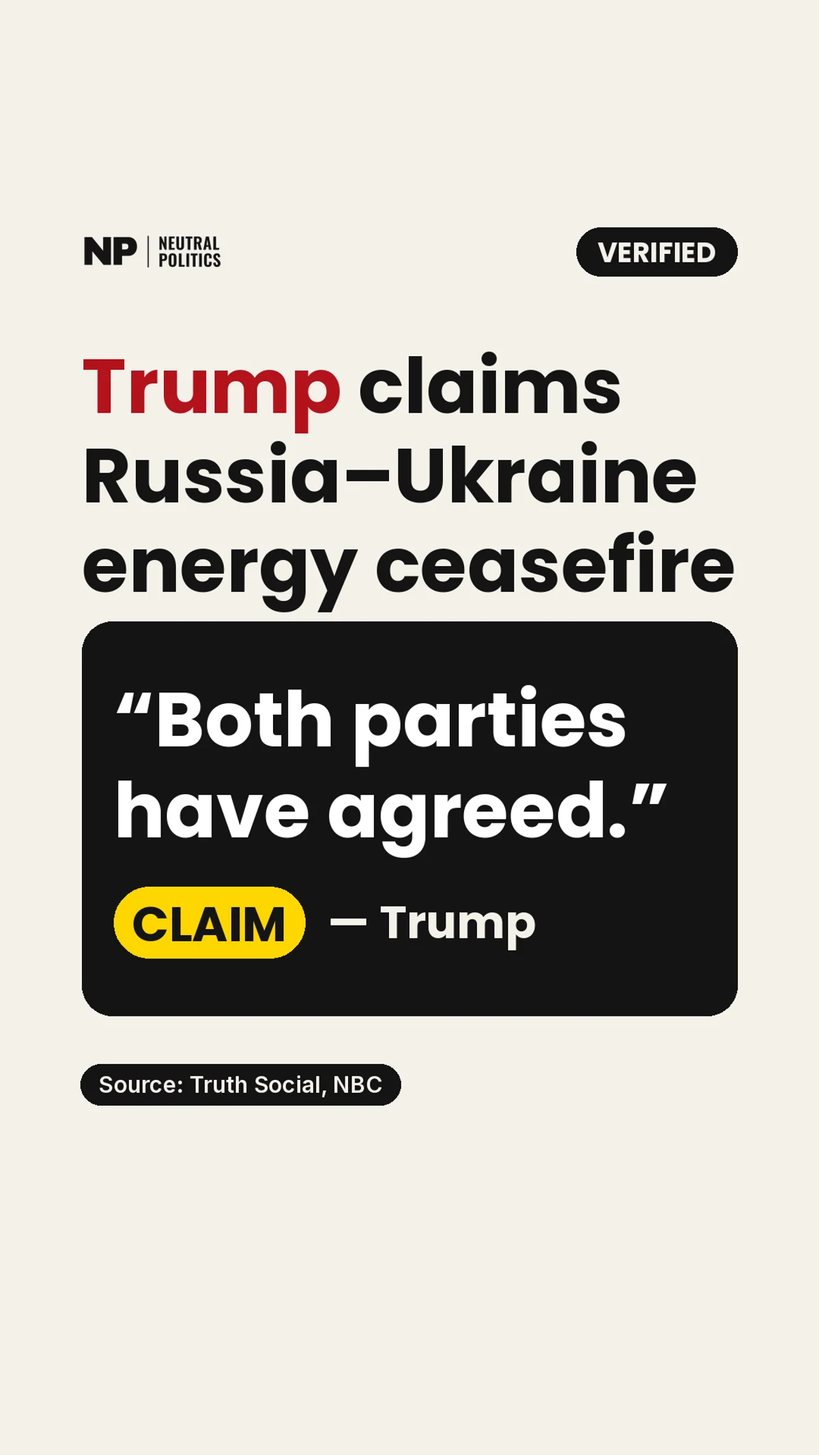
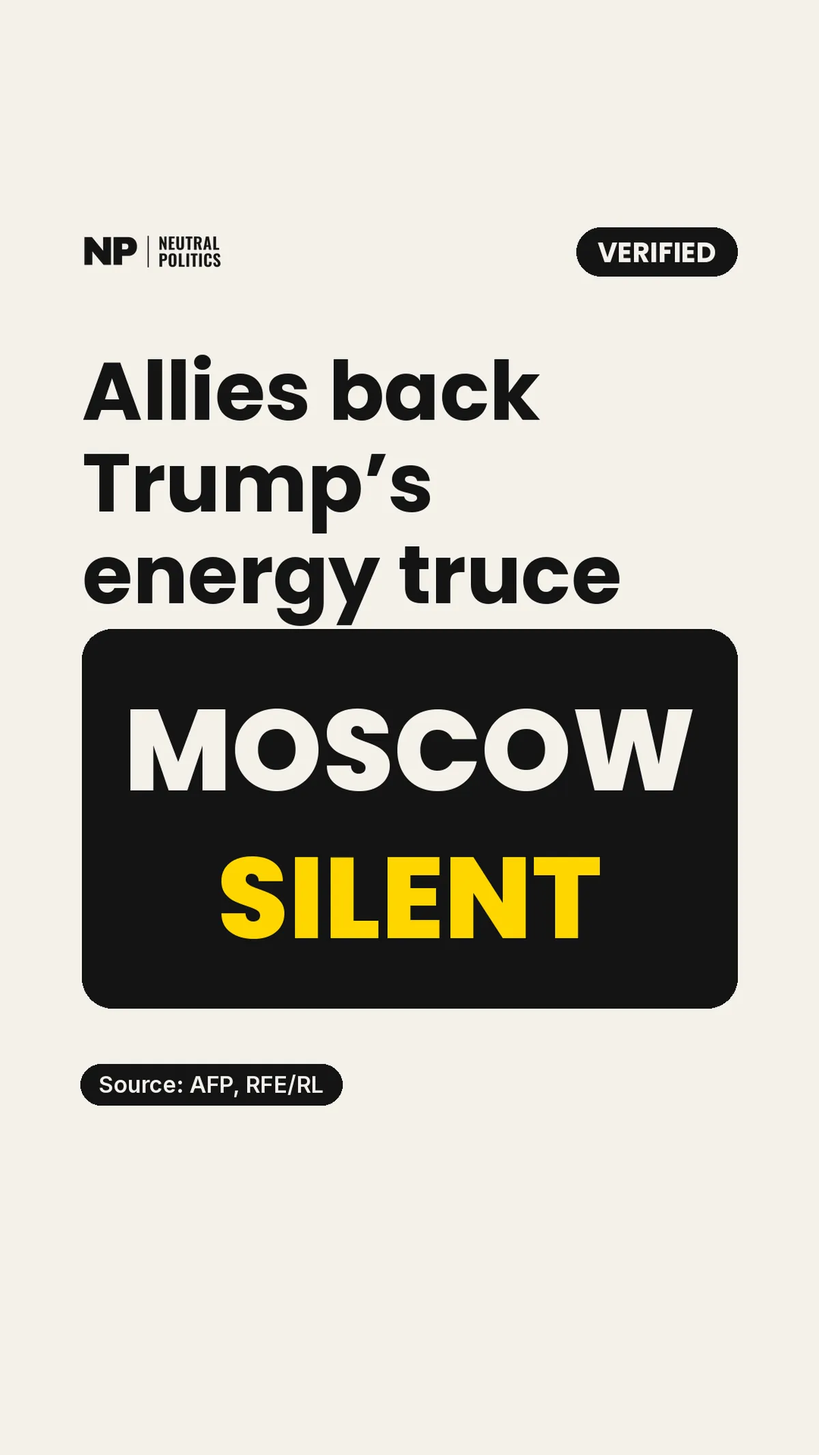
Update the ceasefire draft and file the Hormuz tanker note as a draft.
Allies' backing and Zelenskyy's strike account stay inside the unpublished ceasefire note. The Petro Dolphin and Valthera note is a separate draft and is not on the public lists.

Changed region(s): [[0.0925, 0.4641, 0.8942, 0.7736], [0.0925, 0.2166, 0.8942, 0.4641]]

diff --git a/content/news/2026/10/trump-russia-ukraine-energy-ceasefire-claim.hi.md b/content/news/2026/10/trump-russia-ukraine-energy-ceasefire-claim.hi.md
@@ -1,38 +1,36 @@
 ---
-title: "ट्रंप ने ऊर्जा-युद्धविराम का दावा किया; मास्को ने पुष्टि नहीं की"
-standfirst: "ट्रंप ने ट्रुथ सोशल पर लिखा कि दोनों पक्ष ऊर्जा-युद्धविराम पर सहमत हो गए हैं। यह समझौता उनका दावा है। पोस्ट की घोषणा सत्यापित है। ज़ेलेंस्की ने कहा \"news for me\", और कहा कि रूस माने तो यूक्रेन भी मानेगा। 11 अक्टूबर 2026 को रात 8:55 बजे IST तक मास्को ने पुष्टि नहीं की थी। एनबीसी लिखता है कि एक महीने पहले की मिलती-जुलती घोषणा टिकी नहीं।"
+title: "ट्रंप का ऊर्जा-युद्धविराम दावा; सहयोगियों ने पुकार का साथ दिया; मास्को ने पुष्टि नहीं की"
+standfirst: "ट्रंप की ट्रुथ सोशल पोस्ट सत्यापित है। दोनों पक्षों के सहमत होने वाली उनकी पंक्ति दावा है, और वह कथित है। 12 अक्टूबर 2026 को सुबह 8:55 बजे IST तक क्रेमलिन ने पुष्टि नहीं की थी। कनाडा, ब्रिटेन और फ़्रांस ने उनकी पुकार का साथ दिया। यूरोपीय आयोग की अध्यक्ष ने ज़ेलेंस्की की पुकार का साथ दिया। ज़ेलेंस्की कहते हैं कि यूक्रेन युद्धविराम का समर्थन करता है, और आरोप लगाते हैं कि घोषणा के बाद रूस ने बिजलीघरों पर हमला किया। वे हमले उनका खाता हैं।"
 key_facts:
-  - "जाँच 11 अक्टूबर 2026 को रात 8:55 बजे IST। पोस्ट रात 8:57 बजे IST। घोषणा, यानी ट्रंप की ट्रुथ सोशल पोस्ट, सत्यापित है। समझौता दावा है।"
-  - "एनबीसी, द हिल, वॉशिंगटन एग्ज़ामिनर, एनडीटीवी और कीव पोस्ट पोस्ट का उद्धरण देते हैं। यहाँ इस्तेमाल हुई पंक्ति उनकी है: \"Both parties have agreed.\" यह वाक्य ऊर्जा-युद्धविराम पर ट्रंप का दावा है। इस जाँच में ट्रुथ सोशल खोला नहीं गया। मुहर कहती है कि उद्धृत पाठ अखबारों में एक जैसा है।"
-  - "ज़ेलेंस्की ने कहा कि यह \"news for me\" है, और रूस माने तो यूक्रेन भी मानेगा। एक्सियोस, एनबीसी और द हिल के ज़रिए, ये शब्द छापता है।"
-  - "रात 8:55 बजे IST तक मास्को ने घोषणा की पुष्टि नहीं की थी। एनबीसी और kurs.com.ua यह लिखते हैं। कीव इंडिपेंडेंट नोट करता है कि 8 अक्टूबर को पेसकोव ने कहा था कि रूस एक क्षेत्रीय युद्धविराम में कोई मतलब नहीं देखता। वह टिप्पणी 8 अक्टूबर की है।"
-  - "एनबीसी नोट करता है कि एक महीने पहले की मिलती-जुलती घोषणा टिकी नहीं।"
+  - "पहली जाँच 11 अक्टूबर 2026 को रात 8:55 बजे IST, पोस्ट रात 8:57 बजे IST। अगली कड़ी की जाँच 12 अक्टूबर को सुबह 8:55 बजे IST, पोस्ट सुबह 10:56 बजे IST। घोषणा सत्यापित है। \"Both parties have agreed\" ट्रंप का दावा है, और कथित है।"
+  - "कनाडा के प्रधानमंत्री मार्क कार्नी, ब्रिटेन के प्रधानमंत्री एंडी बर्नहम, और फ़्रांस के इमैनुएल मैक्रों ने ट्रंप की ऊर्जा-युद्धविराम पुकार का साथ दिया। यूरोपीय आयोग की अध्यक्ष उर्सुला फ़ॉन डेर लेयेन ने ज़ेलेंस्की की युद्धविराम-पुकार का साथ दिया। इस नोट में उनका साथ ट्रंप के फ़्रेमिंग जैसा नहीं माना गया।"
+  - "ज़ेलेंस्की कहते हैं कि यूक्रेन एक ट्रूस का समर्थन करता है। यहाँ वह शब्द पुकार है, चल रहा ट्रूस नहीं। उन्होंने आरोप लगाया कि घोषणा के बाद रूस ने बिजलीघरों पर हमला किया। एएफ़पी का खाता कीव और खार्किव सीएचपी-5 लेता है। आरएफ़ई/आरएल कहता है कि समय की स्वतंत्र पुष्टि नहीं हुई।"
+  - "12 अक्टूबर को सुबह 8:55 बजे IST तक क्रेमलिन ने दावे की पुष्टि नहीं की थी। ग्लोब एंड मेल, आरएफ़ई/आरएल, गार्डियन, पीबीएस और बीबीसी यह ख़ामोशी छापते हैं। कीव इंडिपेंडेंट में एक रूसी सांसद का सवाल क्रेमलिन की लाइन नहीं है।"
+  - "कार्नी ने, ग्लोब एंड मेल में, अमेरिका-रूस डीज़ल समझौते की अलग से निंदा भी की। वह पुकार से अलग है।"
 sides:
   - label: "सत्यापित"
-    text: "ट्रंप ने ट्रुथ सोशल पर घोषणा पोस्ट की। अखबार उन्हें यह कहते हुए उद्धृत करते हैं कि दोनों पक्ष सहमत हो गए हैं। वह उद्धरण उनका दावा है।"
-  - label: "दावा, अपुष्ट"
-    text: "समझौता खुद। ज़ेलेंस्की ने कहा कि यह उनके लिए नई बात है और रूस माने तो यूक्रेन मानेगा। 8:55 बजे IST तक मास्को ने पुष्टि नहीं की थी।"
+    text: "ट्रंप ने घोषणा पोस्ट की। कार्नी, बर्नहम और मैक्रों ने पुकार का साथ दिया। फ़ॉन डेर लेयेन ने ज़ेलेंस्की की पुकार का साथ दिया। 12 अक्टूबर की जाँच तक मास्को ने दावे की पुष्टि नहीं की थी।"
+  - label: "दावा, कथित"
+    text: "\"Both parties have agreed.\" घोषणा के बाद बिजलीघरों पर हमले का आरोप ज़ेलेंस्की का है। समय को यहाँ स्वतंत्र रूप से सत्यापित निष्कर्ष नहीं माना गया।"
 not_confirmed:
-  - "कि दोनों पक्ष सहमत हो गए हैं। ये शब्द ट्रंप का दावा हैं।"
-  - "मास्को की पुष्टि, 11 अक्टूबर 2026 को रात 8:55 बजे IST तक।"
-  - "दावे के साथ कोई अवधि। यहाँ कोई अवधि नहीं लिखी गई।"
+  - "कि दोनों पक्ष सहमत हो गए हैं। ये शब्द ट्रंप का दावा हैं, और कथित रहते हैं।"
+  - "क्रेमलिन की पुष्टि या खंडन, 12 अक्टूबर 2026 को सुबह 8:55 बजे IST तक।"
+  - "बिजलीघरों पर हमले, इस नोट के निष्कर्ष के रूप में। वे ज़ेलेंस्की का आरोप हैं। आरएफ़ई/आरएल कहता है कि समय की स्वतंत्र पुष्टि नहीं हुई।"
 translation:
   engine: "cloud-agent"
   status: "machine"
 ---
 
-यह नोट एनपी नाउ है। घोषणा सत्यापित है। समझौता दावा है। जाँच 11 अक्टूबर 2026 को रात 8:55 बजे IST हुई और पोस्ट रात 8:57 बजे IST हुआ।
+यह नोट एनपी नाउ है। घोषणा सत्यापित है। समझौता दावा है। पहली जाँच 11 अक्टूबर 2026 को रात 8:55 बजे IST हुई, और वह रील रात 8:57 बजे IST पोस्ट हुई। अगली कड़ी की जाँच 12 अक्टूबर 2026 को सुबह 8:55 बजे IST हुई और पोस्ट सुबह 10:56 बजे IST हुआ। अगली कड़ी की मुहर सहयोगियों के समर्थन पर, मास्को की ख़ामोशी पर, और इस बात पर सत्यापित है कि हमले का आरोप ज़ेलेंस्की ने लगाया। दोनों पक्षों के सहमत होने वाली पंक्ति दावा रहती है।
 
-राष्ट्रपति डॉनल्ड ट्रंप ने रूस और यूक्रेन के बीच एक ऊर्जा-युद्धविराम पर ट्रुथ सोशल पर पोस्ट किया। एनबीसी, द हिल, वॉशिंगटन एग्ज़ामिनर, एनडीटीवी और कीव पोस्ट उस पोस्ट का उद्धरण देते हैं। एलबीसी भी घोषणा की रिपोर्ट करता है। इस नोट की पंक्ति उनकी है: "Both parties have agreed." यह वाक्य ट्रंप का दावा है। मुहर घोषणा को, यानी पोस्ट को, सत्यापित मानती है। समझौते को वह दावा मानती है। इस जाँच में ट्रुथ सोशल खोला नहीं गया। उद्धृत पाठ वही है जो ये अखबार छापते हैं, और मुहर कहती है कि वह पाठ उनमें एक जैसा है। शिन्हुआ की फ़्लैश उसी जाँच में नाम है, यहाँ अलग लिंक नहीं है।
+राष्ट्रपति डॉनल्ड ट्रंप ने रूस और यूक्रेन के बीच एक ऊर्जा-युद्धविराम पर ट्रुथ सोशल पर पोस्ट किया। एनबीसी, द हिल, वॉशिंगटन एग्ज़ामिनर, एनडीटीवी और कीव पोस्ट उस पोस्ट का उद्धरण देते हैं। एलबीसी भी घोषणा की रिपोर्ट करता है। इस नोट की पंक्ति उनकी है: "Both parties have agreed." अगली कड़ी की स्क्रीन उसी दावे को छोटा करके "Both parties agreed" लिखती है। दोनों रूप कथित हैं। यह ट्रंप का दावा है। पहली जाँच में ट्रुथ सोशल खोला नहीं गया। उद्धृत पाठ वही है जो वे अखबार छापते हैं।
 
-राष्ट्रपति वोलोदिमिर ज़ेलेंस्की ने घोषणा को "news for me" कहा। उन्होंने कहा कि रूस माने तो यूक्रेन भी मानेगा। एक्सियोस, एनबीसी और द हिल के ज़रिए, ये शब्द छापता है। उनका वाक्य शर्त वाला है। वह कहता है कि यूक्रेन का मानना रूस के मानने पर टिका है। यह पोस्ट पर उनकी प्रतिक्रिया है, एक्सियोस के ज़रिए उन दो अखबारों में।
+राष्ट्रपति वोलोदिमिर ज़ेलेंस्की ने घोषणा को "news for me" कहा और कहा कि रूस माने तो यूक्रेन भी मानेगा। एक्सियोस ने, एनबीसी और द हिल के ज़रिए, ये शब्द 11 अक्टूबर को छापे। अगली कड़ी में वे कहते हैं कि यूक्रेन एक ट्रूस का समर्थन करता है। इस नोट में "ट्रूस" उस पुकार का नाम है। इसका अर्थ यह नहीं कि ट्रूस चल रहा है। उन्होंने यह आरोप भी लगाया कि घोषणा के बाद रूस ने बिजलीघरों पर हमला किया। एएफ़पी, 11 अक्टूबर को 20:52 बजे की रिपोर्ट में, कीव और खार्किव के सीएचपी-5 पर हमलों का उनका खाता छापता है। आरएफ़ई/आरएल, उसी रात 10:01 बजे यूटीसी की फ़ाइल में, कहता है कि उन हमलों के समय की स्वतंत्र पुष्टि नहीं हुई। यह नोट हमलों को ज़ेलेंस्की से जोड़ता है। उन्हें अपना खाता नहीं बनाता।
 
-रात 8:55 बजे IST तक मास्को ने घोषणा की पुष्टि नहीं की थी। एनबीसी पुष्टि न होने की रिपोर्ट करता है, और kurs.com.ua भी। कीव इंडिपेंडेंट, इस जाँच में नोट किए गए खाते में, लिखता है कि 8 अक्टूबर को पेसकोव ने कहा था कि रूस एक क्षेत्रीय युद्धविराम में कोई मतलब नहीं देखता। यह पेसकोव की 8 अक्टूबर की रिपोर्ट की गई टिप्पणी है। यह नोट उसे उसी पुरानी टिप्पणी के रूप में रखता है। उसे 11 अक्टूबर की पोस्ट पर मास्को का जवाब नहीं माना गया। जाँच तक रिकॉर्ड पर बात यह है कि मास्को ने घोषणा की पुष्टि नहीं की थी।
+अगली कड़ी दर्ज करती है कि पुकार का किसने साथ दिया। कनाडा के प्रधानमंत्री मार्क कार्नी, ब्रिटेन के प्रधानमंत्री एंडी बर्नहम, और फ़्रांस के इमैनुएल मैक्रों ने ट्रंप की ऊर्जा-युद्धविराम पुकार का साथ दिया। आरएफ़ई/आरएल बर्नहम और कार्नी की रिपोर्ट करता है। ग्लोब एंड मेल कार्नी का "strong support" छापता है। एएफ़पी मैक्रों को "real energy ceasefire" कहते हुए छापता है, पुकार का साथ देते हुए। वह मुहावरा उनका है, पुकार के अंदर। यूरोपीय आयोग की अध्यक्ष उर्सुला फ़ॉन डेर लेयेन ने ज़ेलेंस्की की युद्धविराम-पुकार का साथ दिया। सीएनए यह छापता है। जाँच एसबीएस का भी नाम लेती है। यह नोट उनके समर्थन को ट्रंप के फ़्रेमिंग का समर्थन नहीं मानता। स्क्रीन की पंक्ति यह है कि सहयोगी साथ हैं, और मास्को ख़ामोश है।
 
-एनबीसी यह भी नोट करता है कि एक महीने पहले की मिलती-जुलती घोषणा टिकी नहीं। यह एनबीसी की तुलना है, और स्क्रीन पर ट्रैक-रिकॉर्ड की पंक्ति है। वह उस पुरानी घोषणा का हाल दर्ज करती है। यह कोई पूर्वानुमान नहीं है।
+12 अक्टूबर को सुबह 8:55 बजे IST तक मास्को ने दावे की पुष्टि नहीं की थी। ग्लोब एंड मेल, आरएफ़ई/आरएल, गार्डियन की 12 अक्टूबर की ब्रीफ़िंग, पीबीएस और बीबीसी यह ख़ामोशी छापते हैं। कीव इंडिपेंडेंट नोट करता है कि एक रूसी सांसद ने दावे पर सवाल किया। वह क्रेमलिन की आधिकारिक पुष्टि या खंडन नहीं है। 11 अक्टूबर की पहले वाली जाँच में भी यही कमी थी: एनबीसी और kurs.com.ua ने तब मास्को की पुष्टि न होने की रिपोर्ट की, और कीव इंडिपेंडेंट ने पेसकोव की 8 अक्टूबर की टिप्पणी नोट की कि रूस एक क्षेत्रीय युद्धविराम में कोई मतलब नहीं देखता। एनबीसी ने यह भी नोट किया कि एक महीने पहले की मिलती-जुलती घोषणा टिकी नहीं।
 
-स्क्रीन एक बँटवारे पर बंद होती है। घोषणा: हाँ। दोनों सहमत हुए या नहीं: दावा, और अपुष्ट। कैप्शन भी यही बँटवारा इस्तेमाल करता है। पोस्ट की स्थिति-पंक्ति कहती है कि घोषणा सत्यापित है और समझौता दावा है, जाँच रात 8:55 बजे IST।
+कार्नी की डीज़ल टिप्पणी अलग है, और वह कैप्शन के स्तर पर है। ग्लोब एंड मेल लिखता है कि उन्होंने अमेरिका-रूस डीज़ल समझौते की निंदा की, पुकार का साथ देते हुए भी। विनिपेग फ़्री प्रेस भी उस समझौते पर उनकी टिप्पणी छापता है। यह नोट निंदा दर्ज करता है। यह कोई क़ीमत का नतीजा नहीं जोड़ता।
 
-लेख के नीचे लिंक एनबीसी, द हिल, वॉशिंगटन एग्ज़ामिनर, एनडीटीवी, कीव पोस्ट और एलबीसी हैं। kurs.com.ua, कीव इंडिपेंडेंट और शिन्हुआ जाँच में नाम हैं और यहाँ अलग लिंक नहीं हैं।
-
-कवर एनपी का टाइपोग्राफ़िक ग्राफ़िक है। कोई तस्वीर इस्तेमाल नहीं हुई।
+पहली रील DeW-jPsRxri है। अगली कड़ी DeYej9nRdNx है। लिंक में अब 11 अक्टूबर के माध्यम और एएफ़पी, आरएफ़ई/आरएल, ग्लोब एंड मेल, सीएनए, पीबीएस, बीबीसी, गार्डियन और विनिपेग फ़्री प्रेस हैं। कवर एनपी का टाइपोग्राफ़िक ग्राफ़िक है। कोई तस्वीर इस्तेमाल नहीं हुई।

diff --git a/content/news/2026/10/hormuz-petro-dolphin-valthera-2-indians-missing.hi.md b/content/news/2026/10/hormuz-petro-dolphin-valthera-2-indians-missing.hi.md
@@ -1,0 +1,37 @@
+---
+title: "पेट्रो डॉल्फ़िन और वल्थेरा पर हमलों के बाद दो भारतीय नाविक लापता"
+standfirst: "11 अक्टूबर 2026 को निकारागुआ झंडे वाले एमटी पेट्रो डॉल्फ़िन पर ओमान के सोहर एंकरेज में ड्रोन गिरा। जहाज़रानी मंत्री सर्बानंद सोनोवाल ने कहा कि 11 भारतीय चालक दल में से नौ को बचा लिया गया और दो अब भी लापता हैं। मार्शल द्वीप झंडे वाले एमटी वल्थेरा पर होर्मुज़ जलडमरूमध्य में अज्ञात प्रक्षेप्य गिरा; सोनोवाल ने कहा कि वहाँ के सभी 11 भारतीय चालक दल सुरक्षित हैं। विदेश मंत्रालय ने हमलों की निंदा की। जाँच 12 अक्टूबर को करीब सुबह 10:55 बजे IST। पोस्ट सुबह 11:00 बजे IST।"
+key_facts:
+  - "11 अक्टूबर 2026। भारतीय चालक दल वाले दो टैंकरों पर अलग-अलग हमले। दोबारा जाँच 12 अक्टूबर को करीब सुबह 10:55 बजे IST। पोस्ट सुबह 11:00 बजे IST।"
+  - "एमटी पेट्रो डॉल्फ़िन, निकारागुआ का झंडा, ओमान के सोहर एंकरेज पर: ड्रोन हमला। सोनोवाल: 11 में से नौ भारतीय चालक दल बचाए गए और सुरक्षित हैं; दो भारतीय नागरिक अब भी लापता; स्थानीय तटरक्षक की खोज-बचाव जारी।"
+  - "एमटी वल्थेरा, मार्शल द्वीप का झंडा, होर्मुज़ जलडमरूमध्य में: अज्ञात प्रक्षेप्य और जहाज़ पर आग। सोनोवाल: सभी 11 भारतीय चालक दल सुरक्षित।"
+  - "मस्कट में भारत का दूतावास समन्वय कर रहा है। न्यूज़ ऑन एयर लिखता है कि दूतावास निगरानी कर रहा है।"
+  - "एमईए, न्यूज़ ऑन एयर, इंडियन एक्सप्रेस, इकनॉमिक टाइम्स और फ़र्स्टपोस्ट के ज़रिए: \"We condemn the attacks on commercial vessels in the Strait of Hormuz region on 11 October 2026.\""
+sides:
+  - label: "सोनोवाल ने क्या बताया"
+    text: "पेट्रो डॉल्फ़िन: नौ भारतीय चालक दल बचाए गए, दो लापता, तटरक्षक की खोज जारी। वल्थेरा: अज्ञात प्रक्षेप्य, आग, सभी 11 भारतीय चालक दल सुरक्षित।"
+  - label: "एमईए ने क्या कहा"
+    text: "भारत ने 11 अक्टूबर 2026 को होर्मुज़ जलडमरूमध्य क्षेत्र में वाणिज्यिक जहाज़ों पर हमलों की निंदा की। बयान किसी हमलावर का नाम नहीं लेता।"
+not_confirmed:
+  - "दोनों हमले किसने किए। यह नोट किसी हमलावर का नाम नहीं लेता।"
+  - "दो लापता नाविक, सोनोवाल की गिनती के आगे। वे दो भारतीय नागरिक के रूप में दर्ज हैं जो अब भी लापता हैं।"
+translation:
+  engine: "cloud-agent"
+  status: "machine"
+---
+
+यह नोट एनपी नाउ है। मुहर सत्यापित है। दोबारा जाँच 12 अक्टूबर 2026 को करीब सुबह 10:55 बजे IST हुई और पोस्ट सुबह 11:00 बजे IST हुआ। इसमें 11 अक्टूबर 2026 के दो हमले हैं, भारतीय चालक दल वाले दो टैंकरों पर। दोनों हमले अलग रखे गए हैं।
+
+पहला जहाज़ एमटी पेट्रो डॉल्फ़िन है, झंडा निकारागुआ का। उस पर ओमान के सोहर एंकरेज में ड्रोन गिरा। जहाज़रानी मंत्री सर्बानंद सोनोवाल, जिन्हें पीटीआई के साथ द हिंदू और आईएएनएस के साथ इकनॉमिक टाइम्स उद्धृत करते हैं, ने कहा: "While nine of our Indian crew members have been successfully rescued and are safe, two Indian nationals currently remain missing. Search-and-rescue operations are actively underway by the local Coast Guard." हिंदी में वह यह कह रहे हैं कि नौ भारतीय चालक दल को बचा लिया गया है और वे सुरक्षित हैं, दो भारतीय नागरिक अब भी लापता हैं, और स्थानीय तटरक्षक खोज-बचाव चला रहा है। स्क्रीन भी यही बँटवारा इस्तेमाल करती है: ड्रोन हमला, दो भारतीय लापता, और तटरक्षक की खोज जारी। ट्रिब्यून और इकनॉमिक टाइम्स भी ड्रोन हमला, नौ को बचाया जाना, और दो के लापता होने की रिपोर्ट करते हैं।
+
+मस्कट में भारत का दूतावास समन्वय कर रहा है। न्यूज़ ऑन एयर लिखता है कि दूतावास निगरानी कर रहा है। स्क्रीन कहती है कि दूतावास समन्वय कर रहा है। चालक दल की स्थिति के लिए नामित स्रोत सोनोवाल की पोस्ट और दूतावास का खाता हैं।
+
+दूसरा जहाज़ एमटी वल्थेरा है, झंडा मार्शल द्वीप का। होर्मुज़ जलडमरूमध्य में उस पर अज्ञात प्रक्षेप्य गिरा, और जहाज़ पर आग लगी। सोनोवाल ने कहा कि उस जहाज़ के सभी 11 भारतीय चालक दल सुरक्षित हैं। कैप्शन आग दर्ज करता है। स्क्रीन की पंक्ति यह है कि भारतीय चालक दल सभी सुरक्षित हैं। यह नोट प्रक्षेप्य को अज्ञात रखता है। उसे किसी का नहीं बताता।
+
+विदेश मंत्रालय ने हमलों की निंदा की। न्यूज़ ऑन एयर, इंडियन एक्सप्रेस, इकनॉमिक टाइम्स और फ़र्स्टपोस्ट यह वाक्य छापते हैं: "We condemn the attacks on commercial vessels in the Strait of Hormuz region on 11 October 2026." यह एमईए का वाक्य है। हिंदी में वह 11 अक्टूबर 2026 को होर्मुज़ जलडमरूमध्य क्षेत्र में वाणिज्यिक जहाज़ों पर हमलों की निंदा है। उसमें किसी हमलावर का नाम नहीं है। यह नोट नाम नहीं जोड़ता।
+
+दो लापता लोग वैसे ही रहते हैं जैसे सोनोवाल ने कहा: दो भारतीय नागरिक। कैप्शन भी वही दो जहाज़ दर्ज करता है। पेट्रो डॉल्फ़िन पर, ओमान के पास, ड्रोन हमला, नौ भारतीय बचाए गए, दो अब भी लापता, और तटरक्षक की खोज जारी। वल्थेरा पर, होर्मुज़ में, आग, और सभी 11 भारतीय सुरक्षित। एमईए ने हमलों की निंदा की। कैप्शन कहता है कि हमलावर का आधिकारिक नाम नहीं लिया गया। यह नोट उसी सीमा में रहता है। नोट बंद करने वाली जाँच 12 अक्टूबर को करीब सुबह 10:55 बजे IST हुई, और कैप्शन की स्थिति-पंक्ति सुबह 11:00 बजे IST की जाँच कहती है, जिस समय रील पोस्ट हुई।
+
+लिंक सोनोवाल का खाता, मस्कट दूतावास का खाता, न्यूज़ ऑन एयर, द हिंदू, इकनॉमिक टाइम्स की तीन रिपोर्टें, फ़र्स्टपोस्ट, इंडियन एक्सप्रेस और ट्रिब्यून हैं।
+
+कवर एनपी का टाइपोग्राफ़िक ग्राफ़िक है। कोई तस्वीर इस्तेमाल नहीं हुई।

diff --git a/content/news/2026/10/trump-russia-ukraine-energy-ceasefire-claim.en.md b/content/news/2026/10/trump-russia-ukraine-energy-ceasefire-claim.en.md
@@ -1,35 +1,33 @@
 ---
-title: "Trump claims an energy ceasefire; Moscow has not confirmed it"
-standfirst: "Trump posted on Truth Social that both parties had agreed an energy ceasefire. That agreement is his claim. The post itself is verified. Zelenskyy called it \"news for me\" and said Ukraine will agree if Russia does. As of 8:55 pm IST on 11 October 2026, Moscow had not confirmed it. NBC notes that a similar announcement a month earlier did not hold."
+title: "Trump claims an energy ceasefire; allies back the call; Moscow has not confirmed"
+standfirst: "Trump's Truth Social post is verified. His line that both parties have agreed is a claim, and it is alleged. As of 8:55 am IST on 12 October 2026 the Kremlin had not confirmed it. Canada, the UK and France backed his call. The EU Commission's president backed Zelenskyy's push. Zelenskyy says Ukraine supports a truce and accuses Russia of hitting power plants after the announcement. Those strikes are his account."
 key_facts:
-  - "Checked at 8:55 pm IST on 11 October 2026. Posted at 8:57 pm IST. The announcement, meaning Trump's Truth Social post, is verified. The agreement is a claim."
-  - "NBC, The Hill, the Washington Examiner, NDTV and Kyiv Post quote the post. The line used here is his: \"Both parties have agreed.\" That sentence is Trump's claim about an energy ceasefire. Truth Social was not opened for this check. The stamp says the quoted text is consistent across the outlets."
-  - "Zelenskyy said it was \"news for me\", and that Ukraine will agree if Russia does. Axios, via NBC and The Hill, reports those words."
-  - "As of 8:55 pm IST, Moscow had not confirmed the announcement. NBC and kurs.com.ua report that. The Kyiv Independent notes that on 8 October Peskov said Russia saw no point in a sectoral ceasefire. That remark is from 8 October."
-  - "NBC notes that a similar announcement a month earlier did not hold."
+  - "Original post checked at 8:55 pm IST on 11 October 2026 and posted at 8:57 pm IST. Follow-up checked at 8:55 am IST on 12 October and posted at 10:56 am IST. The announcement is verified. \"Both parties have agreed\" is Trump's claim, labelled alleged."
+  - "Canada's Prime Minister Mark Carney, the UK's Prime Minister Andy Burnham, and France's Emmanuel Macron backed Trump's energy-ceasefire call. EU Commission President Ursula von der Leyen backed Zelenskyy's ceasefire push. This note does not treat her backing as Trump's framing."
+  - "Zelenskyy says Ukraine supports a truce. Here that word is the call, not a truce under way. He accused Russia of hitting power plants after the announcement. AFP's account names Kyiv and Kharkiv CHP-5. RFE/RL says the timing was not independently verified."
+  - "The Kremlin had not confirmed the claim as of 8:55 am IST on 12 October. The Globe and Mail, RFE/RL, the Guardian, PBS and the BBC carry that silence. A Russian lawmaker's question, in the Kyiv Independent, is not a Kremlin line."
+  - "Carney, in the Globe and Mail, also condemned the US–Russia diesel deal. That is separate from the call."
 sides:
   - label: "Verified"
-    text: "Trump posted the announcement on Truth Social. Outlets quote him saying both parties have agreed. That quotation is his claim."
-  - label: "Claim, unconfirmed"
-    text: "The agreement itself. Zelenskyy said it was news for him and that Ukraine will agree if Russia does. Moscow had not confirmed it as of 8:55 pm IST."
+    text: "Trump posted the announcement. Carney, Burnham and Macron backed the call. von der Leyen backed Zelenskyy's push. Moscow had not confirmed the claim at the 12 October check."
+  - label: "Claim, alleged"
+    text: "\"Both parties have agreed.\" Zelenskyy's accusation that Russia hit power plants after the announcement is his account. The timing is not adopted here as independently verified."
 not_confirmed:
-  - "That both parties have agreed. Those words are Trump's claim."
-  - "Moscow's confirmation, as of 8:55 pm IST on 11 October 2026."
-  - "Any length of time attached to the claim. None is stated here."
+  - "That both parties have agreed. Those words are Trump's claim, and they stay alleged."
+  - "A Kremlin confirmation or denial, as of 8:55 am IST on 12 October 2026."
+  - "The power-plant strikes as a finding of this note. They are Zelenskyy's accusation. RFE/RL says the timing was not independently verified."
 ---
 
-This note is NP NOW. The announcement is verified. The agreement is a claim. It was checked at 8:55 pm IST on 11 October 2026 and posted at 8:57 pm IST.
+This note is NP NOW. The announcement is verified. The agreement is a claim. The first check was at 8:55 pm IST on 11 October 2026, and that reel was posted at 8:57 pm IST. A follow-up was checked at 8:55 am IST on 12 October 2026 and posted at 10:56 am IST. The stamp on the follow-up is verified for the allies' backing, for Moscow's silence, and for the fact that Zelenskyy made the strike accusation. The line that both sides agreed stays a claim.
 
-President Donald Trump posted on Truth Social about an energy ceasefire between Russia and Ukraine. NBC, The Hill, the Washington Examiner, NDTV and Kyiv Post quote the post. LBC also reports the announcement. The line this note uses is his: "Both parties have agreed." That sentence is Trump's claim. The stamp records the announcement, meaning the post, as verified. It records the agreement itself as a claim. Truth Social was not opened for this check. The quoted text is the text those outlets carry, and the stamp says that quoted text is consistent across them. Xinhua's flash is named in the same check, without a separate link here.
+President Donald Trump posted on Truth Social about an energy ceasefire between Russia and Ukraine. NBC, The Hill, the Washington Examiner, NDTV and Kyiv Post quote the post. LBC also reports the announcement. The line this note uses is his: "Both parties have agreed." The follow-up screen shortens the same claim to "Both parties agreed." Either way it is alleged. It is Trump's claim. Truth Social was not opened for the first check. The quoted text is what those outlets carry.
 
-President Volodymyr Zelenskyy called the announcement "news for me". He said Ukraine will agree if Russia does. Axios, carried by NBC and by The Hill, reports those words. His sentence is conditional. It says Ukraine's agreement depends on Russia agreeing. It is his response to the post, reported by Axios through those two outlets.
+President Volodymyr Zelenskyy called the announcement "news for me" and said Ukraine will agree if Russia does. Axios, through NBC and The Hill, reported those words on 11 October. On the follow-up he says Ukraine supports a truce. In this note "truce" means that call. It does not mean a truce is under way. He also accused Russia of hitting power plants after the announcement. AFP, in a report timed 20:52 on 11 October, carries his account of strikes in Kyiv and at Kharkiv's CHP-5. RFE/RL, in a file timed at 10:01 pm UTC the same night, says the timing of those strikes was not independently verified. This note attributes the strikes to Zelenskyy. It does not adopt them as its own account of what happened.
 
-Moscow had not confirmed the announcement as of 8:55 pm IST. NBC reports that lack of confirmation, and so does kurs.com.ua. The Kyiv Independent, in an account noted for this check, reports that on 8 October Peskov said Russia saw no point in a sectoral ceasefire. That is Peskov's reported remark from 8 October. This note keeps it as that earlier remark. It is not used as Moscow's answer to the 11 October post. As of the check, the point on record is that Moscow had not confirmed the announcement.
+The follow-up records who backed the call. Canada's Prime Minister Mark Carney, the UK's Prime Minister Andy Burnham, and France's Emmanuel Macron backed Trump's energy-ceasefire call. RFE/RL reports Burnham and Carney. The Globe and Mail reports Carney's "strong support". AFP reports Macron speaking of a "real energy ceasefire" as his way of backing the call. That phrase is his, inside the call. EU Commission President Ursula von der Leyen backed Zelenskyy's ceasefire push. CNA reports that. The check also names SBS. This note does not treat her backing as an endorsement of Trump's framing. The screen's line is that the allies are on board, and that Moscow is silent.
 
-NBC also notes that a similar announcement a month earlier did not hold. That is NBC's comparison, and it is the track-record line on the screen. It records what happened to that earlier announcement. It is not a forecast.
+Moscow had not confirmed the claim as of 8:55 am IST on 12 October. The Globe and Mail, RFE/RL, the Guardian's 12 October briefing, PBS and the BBC carry that silence. The Kyiv Independent notes that a Russian lawmaker questioned the claim. That is not an official Kremlin confirmation or denial. The earlier 11 October check had the same gap: NBC and kurs.com.ua reported no Moscow confirmation then, and the Kyiv Independent noted Peskov's 8 October remark that Russia saw no point in a sectoral ceasefire. NBC also noted that a similar announcement a month earlier did not hold.
 
-The screen closes on a split. Announced: yes. Whether both agreed: a claim, and unconfirmed. The caption uses the same split. The status line on the post says the announcement is verified and the agreement is a claim, checked at 8:55 pm IST.
+Carney's diesel remark is separate, and it sits at caption level. The Globe and Mail reports that he condemned the US–Russia diesel deal even as he backed the call. The Winnipeg Free Press also carries his comment on that deal. This note records the condemnation. It does not add a price consequence.
 
-The links under the article are NBC, The Hill, the Washington Examiner, NDTV, Kyiv Post and LBC. kurs.com.ua, the Kyiv Independent and Xinhua are named in the check and are not given as separate links here.
-
-The cover is an NP typographic graphic. No photograph is used.
+The first reel is DeW-jPsRxri. The follow-up is DeYej9nRdNx. The links now include the 11 October outlets and AFP, RFE/RL, the Globe and Mail, CNA, PBS, the BBC, the Guardian and the Winnipeg Free Press. The cover is an NP typographic graphic. No photograph is used.

diff --git a/content/news/2026/10/hormuz-petro-dolphin-valthera-2-indians-missing.en.md b/content/news/2026/10/hormuz-petro-dolphin-valthera-2-indians-missing.en.md
@@ -1,0 +1,34 @@
+---
+title: "Two Indian seafarers missing after strikes on Petro Dolphin and Valthera"
+standfirst: "On 11 October 2026 a drone hit the Nicaragua-flagged MT Petro Dolphin at Sohar Anchorage off Oman. Shipping Minister Sarbananda Sonowal said nine of the 11 Indian crew were rescued and two remain missing. The Marshall Islands-flagged MT Valthera was struck by an unknown projectile in the Strait of Hormuz; Sonowal said all 11 Indian crew there are safe. The MEA condemned the attacks. Checked about 10:55 am IST on 12 October. Posted at 11:00 am IST."
+key_facts:
+  - "11 October 2026. Two separate strikes on tankers carrying Indian crews. Re-checked about 10:55 am IST on 12 October. Posted at 11:00 am IST."
+  - "MT Petro Dolphin, Nicaragua-flagged, at Sohar Anchorage off Oman: a drone strike. Sonowal: nine of 11 Indian crew rescued and safe; two Indian nationals still missing; local Coast Guard search-and-rescue under way."
+  - "MT Valthera, Marshall Islands-flagged, in the Strait of Hormuz: an unknown projectile and an onboard fire. Sonowal: all 11 Indian crew safe."
+  - "Embassy of India in Muscat is coordinating. News On AIR reports the embassy is monitoring."
+  - "MEA, via News On AIR, The Indian Express, The Economic Times and Firstpost: \"We condemn the attacks on commercial vessels in the Strait of Hormuz region on 11 October 2026.\""
+sides:
+  - label: "What Sonowal reported"
+    text: "Petro Dolphin: nine Indian crew rescued, two missing, Coast Guard search under way. Valthera: unknown projectile, fire, all 11 Indian crew safe."
+  - label: "What the MEA said"
+    text: "India condemned the attacks on commercial vessels in the Strait of Hormuz region on 11 October 2026. The statement names no attacker."
+not_confirmed:
+  - "Who carried out either strike. This note names no attacker."
+  - "The two missing seafarers beyond Sonowal's count. They are recorded as two Indian nationals still missing."
+---
+
+This note is NP NOW. The stamp is verified. It was re-checked at about 10:55 am IST on 12 October 2026 and posted at 11:00 am IST. It records two strikes on 11 October 2026, on two tankers with Indian crews. The strikes are kept separate.
+
+The first ship is MT Petro Dolphin, flagged in Nicaragua. It was hit by a drone at Sohar Anchorage, off Oman. Shipping Minister Sarbananda Sonowal, quoted by The Hindu with PTI and by The Economic Times with IANS, said: "While nine of our Indian crew members have been successfully rescued and are safe, two Indian nationals currently remain missing. Search-and-rescue operations are actively underway by the local Coast Guard." The screen uses the same split: a drone hit, two Indians missing, and a Coast Guard search under way. The Tribune and The Economic Times also report the drone strike, the nine rescued, and the two missing.
+
+The Embassy of India in Muscat is coordinating. News On AIR reports that the embassy is monitoring. The screen says the embassy is coordinating. Sonowal's post and the embassy's account are the sources named for the crew status.
+
+The second ship is MT Valthera, flagged in the Marshall Islands. It was struck by an unknown projectile in the Strait of Hormuz, and there was a fire on board. Sonowal said all 11 Indian crew on that ship are safe. The caption records the fire. The screen's line is that the Indian crew are all safe. This note keeps the projectile as unknown. It does not give it an owner.
+
+The Ministry of External Affairs condemned the attacks. News On AIR, The Indian Express, The Economic Times and Firstpost carry the sentence: "We condemn the attacks on commercial vessels in the Strait of Hormuz region on 11 October 2026." That is the MEA's sentence. It names no attacker. This note does not add one.
+
+The two missing people stay as Sonowal stated them: two Indian nationals. The caption records the same pair of ships. On Petro Dolphin, off Oman, a drone hit, nine Indians rescued, two still missing, and the Coast Guard search still going. On Valthera, in the Hormuz, a fire, and all 11 Indians safe. The MEA condemned the attacks. The caption says an attacker has not been officially named. This note stays inside that limit. The check that closed the note was about 10:55 am IST on 12 October, and the caption's status line is checked at 11:00 am IST, the time the reel was posted.
+
+The links are Sonowal's account, the Muscat embassy's account, News On AIR, The Hindu, three Economic Times reports, Firstpost, The Indian Express and The Tribune.
+
+The cover is an NP typographic graphic. No photograph is used.
